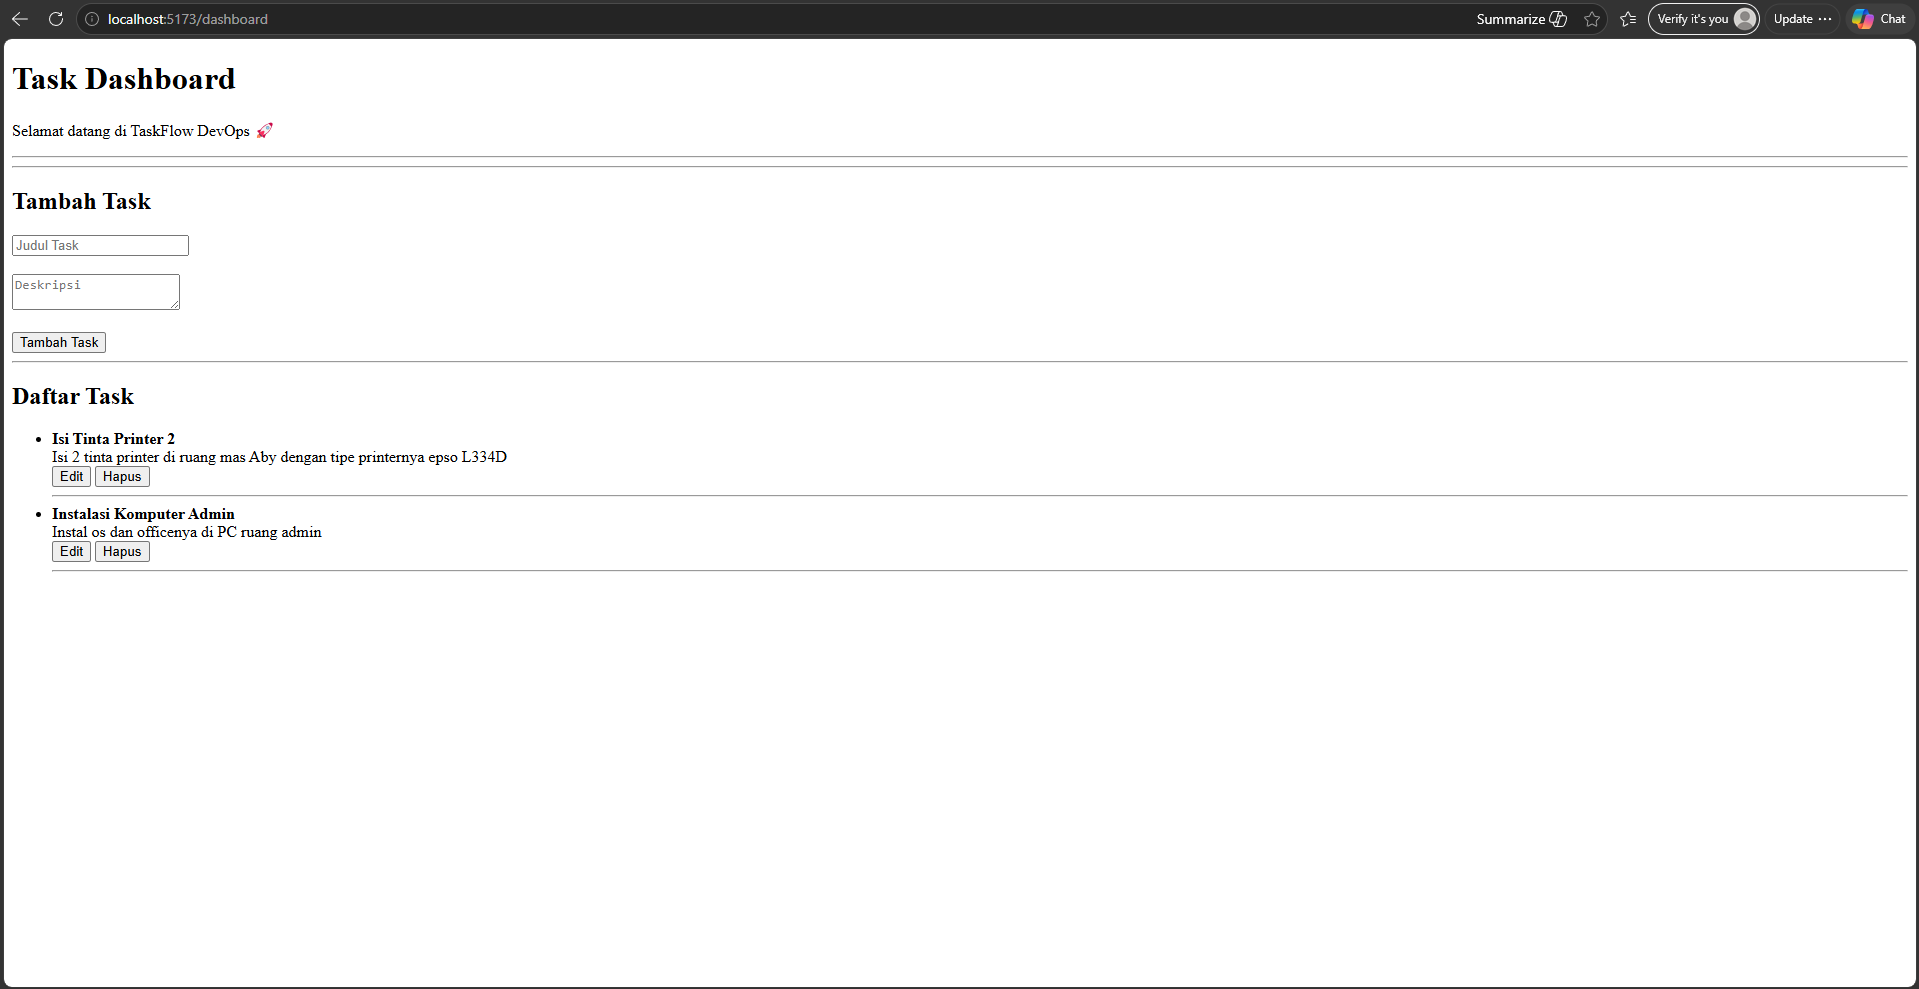
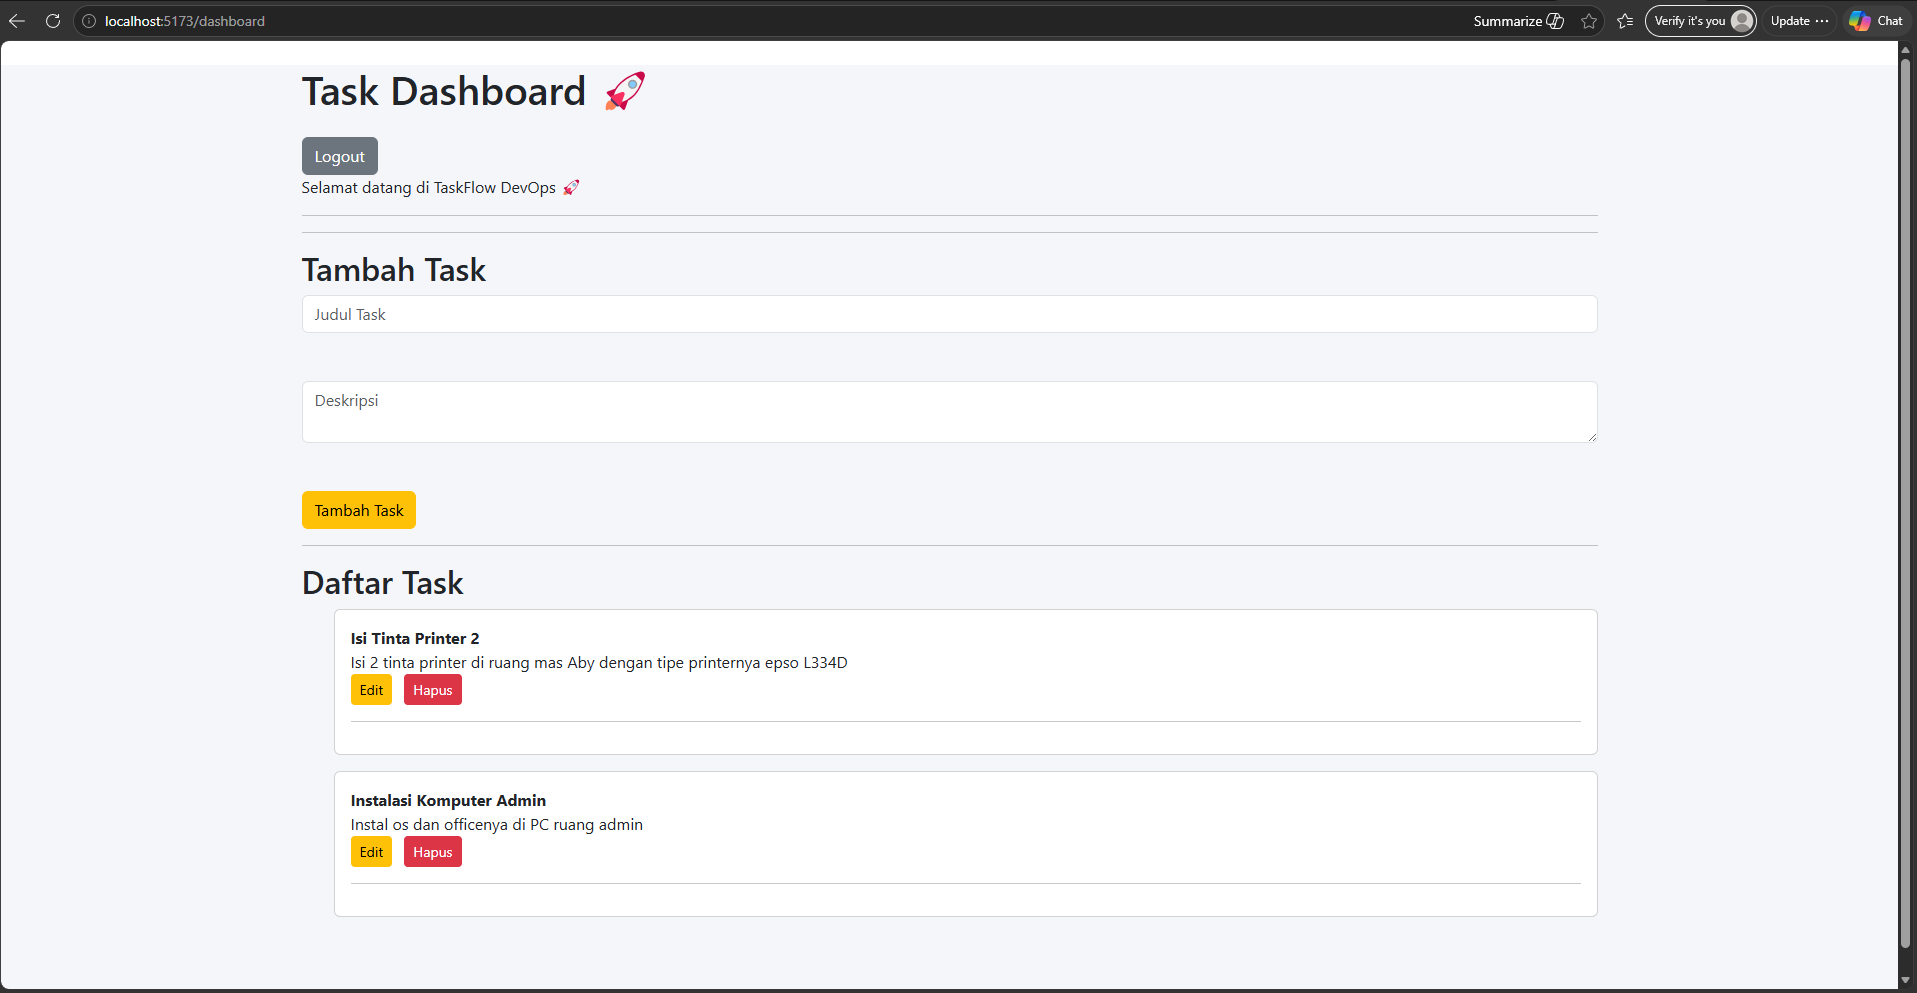
final project submission

diff --git a/frontend/src/App.jsx b/frontend/src/App.jsx
@@ -9,26 +9,25 @@ import Dashboard from "./pages/Dashboard";
 
 function App() {
   return (
-     <div
-        style={{
-          minHeight: "100vh",
-          background:
-            "background-color: #f5f5f5;",
-        }}
-      >
-    <BrowserRouter>
-      <Routes>
-        <Route
-          path="/"
-          element={<Login />}
-        />
+    <div
+      style={{
+        minHeight: "100vh",
+        backgroundColor: "#f5f6fa",
+      }}
+    >
+      <BrowserRouter>
+        <Routes>
+          <Route
+            path="/"
+            element={<Login />}
+          />
 
-        <Route
-          path="/dashboard"
-          element={<Dashboard />}
-        />
-      </Routes>
-    </BrowserRouter>
+          <Route
+            path="/dashboard"
+            element={<Dashboard />}
+          />
+        </Routes>
+      </BrowserRouter>
     </div>
   );
 }